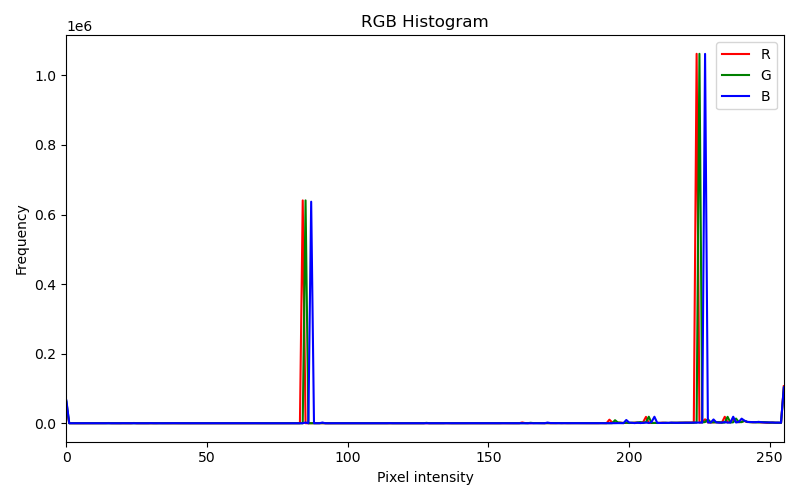
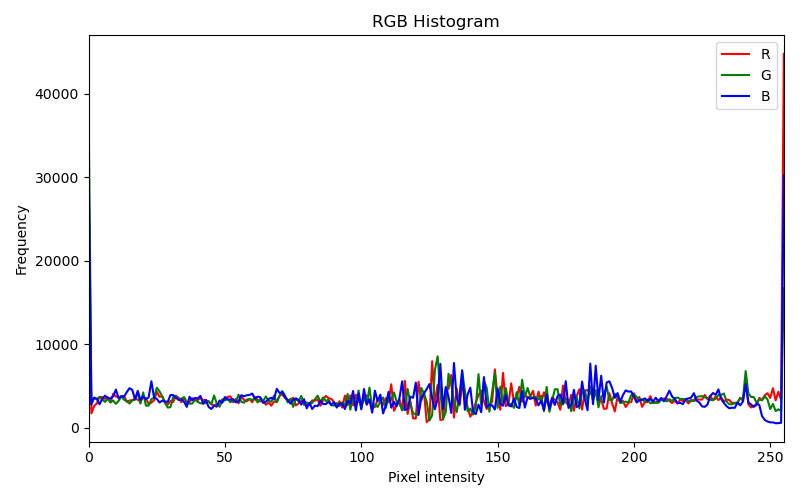
test

diff --git a/VirtualCamera/run.py b/VirtualCamera/run.py
@@ -60,29 +60,19 @@ def custom_processing(img_source_generator):
         # Screenshot vom aktuellen Original-Frame
         screenshot(sequence, key="s")
 
-        # Kopie erstellen, damit Original nicht direkt verändert wird
         img = sequence.copy()
 
-        # 1. Basic statistics auf dem aktuellen Frame
         stats = image_statistics(img)
         ent = entropy(img)
 
-        # 2. Linear transformation
         img = linear_transformation(img, alpha=1.1, beta=5)
 
-        # 3. Histogram equalization
         img = equalize_histogram(img)
 
-        # 4. Filter deiner Wahl
         img = sharpen_filter(img)
-        # alternativ:
-        # img = blur_filter(img)
-        # img = sobel_filter(img)
 
-        # 5. RGB-Histogramm für das verarbeitete Bild berechnen
         r_bars, g_bars, b_bars = histogram_figure_numba(img)
 
-        # 6. Histogramm aktualisieren
         update_histogram(
             fig,
             ax,
@@ -95,10 +85,8 @@ def custom_processing(img_source_generator):
             b_bars
         )
 
-        # 7. Histogramm als Overlay ins Bild zeichnen
         img = plot_overlay_to_image(img, fig)
 
-        # 8. Textwerte anzeigen
         display_text_arr = [
             f"Entropy: {ent:.2f}",
 
@@ -122,15 +110,15 @@ def custom_processing(img_source_generator):
         if cv2.waitKey(1) & 0xFF == ord("q"):
             cv2.destroyAllWindows()
             return
-        # Genau EIN yield pro Frame
+        
         yield img
 
 
 
 def main():
     # change according to your settings
-    width = 1920
-    height = 1080
+    width = 1280
+    height = 720
     fps = 30
     
     # Define your virtual camera
@@ -139,10 +127,10 @@ def main():
     vc.virtual_cam_interaction(
         custom_processing(
             # either camera stream
-            #vc.capture_cv_video(0, bgr_to_rgb=True)
+            vc.capture_cv_video(0, bgr_to_rgb=True)
             
             # or your window screen
-            vc.capture_screen()
+            #vc.capture_screen()
         )
     )
 